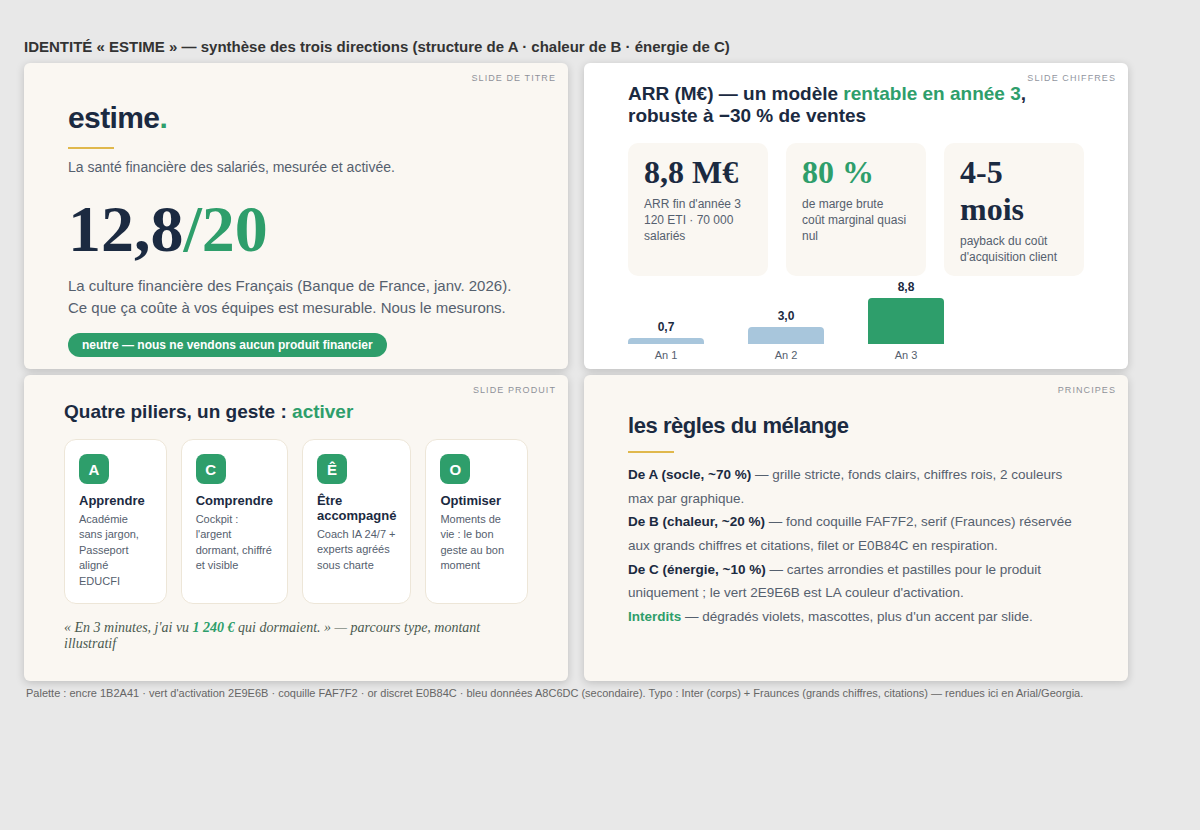
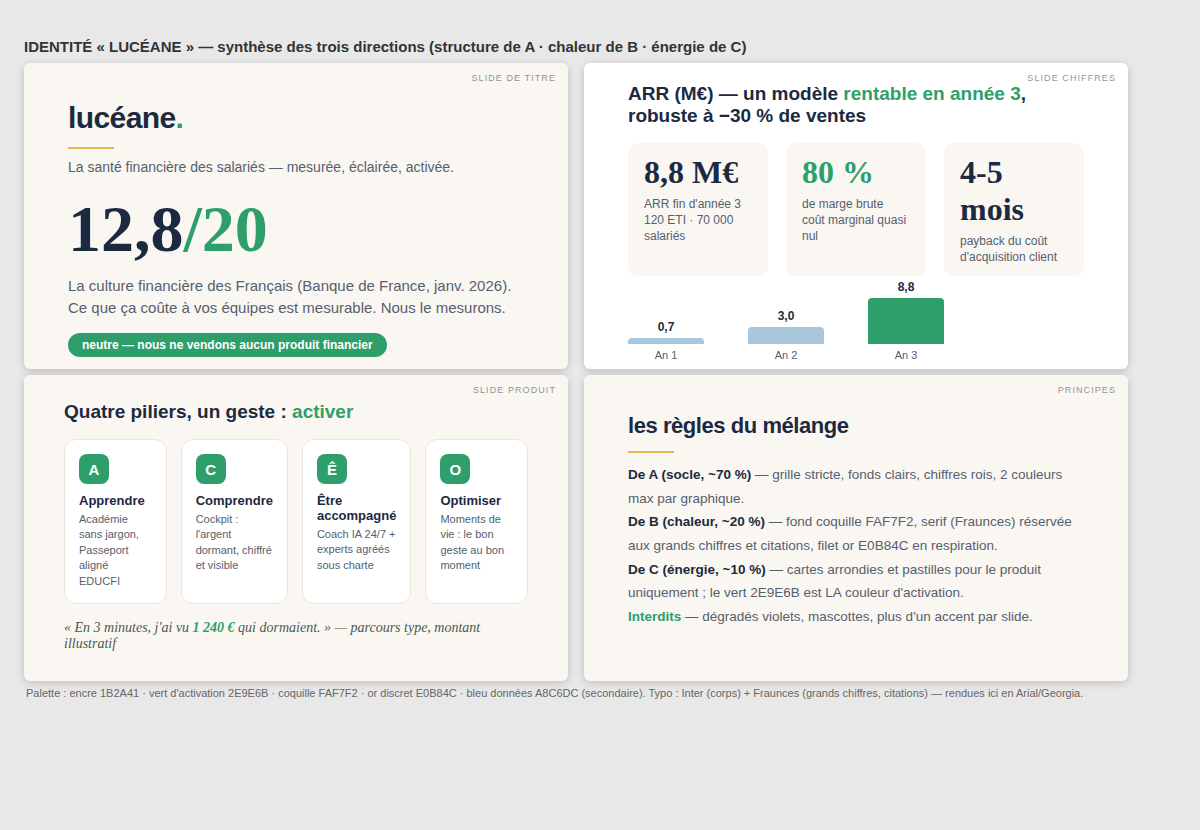
Nom acté : Lucéane (réserve INPI documentée, repli Valéane) ; identité rebrandée
Claude-Session: https://claude.ai/code/session_01AjujWJoYeXi5ZdFNzV5UZE

Changed region(s): [[0.0925, 0.0301, 0.6167, 0.0904], [0.2158, 0.1807, 0.37, 0.2108], [0.0617, 0.1205, 0.1542, 0.1807]]

diff --git a/docs/07_NOM.md b/docs/07_NOM.md
@@ -1,9 +1,31 @@
-# NOM — short-list vérifiée (recherche web du 04/08/2026)
+# NOM — historique des vérifications (04/08/2026)
 
-> **DÉCISION (04/08/2026) : ESTIME** — validé sur l'histoire (mesurer / estime
-> de soi / naviguer à l'estime). Sous réserve de la vérification INPI ci-dessous ;
-> repli : Aurige. Baseline de travail : « La santé financière des salariés,
-> mesurée et activée. »
+> **DÉCISION FINALE (04/08/2026) : LUCÉANE** — du latin *lux, lucere* : celle
+> qui met en lumière l'argent qui dort. Choisie pour sa musique (voyelles
+> ouvertes, consonnes liquides) et son histoire produit (Cockpit = éclairer).
+> Baseline : « La santé financière des salariés — mesurée, éclairée, activée. »
+>
+> **Réserve documentée (à dire en annexe du dossier, pas à cacher)** :
+> LUCEANE™ est une marque active de Sederma (Croda) en cosmétique (classes
+> 1/3) ; nos classes 9/36/41 sont distinctes → dépôt défendable d'après la
+> pré-vérification, MAIS recherche de similarité INPI officielle obligatoire
+> avant tout dépôt réel. Domaines luceane.fr/.com pris → stratégie : luceane.app
+> / luceane.io, négociation du .fr ultérieure. Au registre des sociétés : rien
+> d'actif en finance/RH/logiciel sous ce nom (un salon de thé, deux SCI).
+>
+> **Repli n°1 : VALÉANE** (latin *valere* = être en bonne santé ET avoir de la
+> valeur) — le plus propre de toutes les salves : valeane.fr LIBRE, homonymes
+> exacts radiés (reste un bureau de tabac), une seule ombre phonétique
+> (Valeanne Finances, cl. 36) à vérifier à l'INPI. Repli n°2 : Aurige.
+>
+> Éliminés par la vérification du 04/08 : Lévane (LEVANE SARL active en 66.19B
+> services financiers — conflit frontal), Salvéa (2 homonymes actifs + espace
+> Salvea/Salveo saturé en santé-RH), Aurane (conseil lyonnais + holding actifs),
+> Théane (propre en 9/36/41 mais maroquinerie + écho « théanine », pas de .fr).
+>
+> Historique des décisions : « Estime » avait été retenu le 04/08 puis écarté
+> (mot courant, à la demande de la fondatrice) ; la piste « instruments »
+> (sextant, alidade, astrolabe, octant, astrée, eunoia) écartée (phonétique).
 >
 > **Mode opératoire INPI (30 min, à faire avant tout dépôt)** : sur
 > data.inpi.fr → Recherche marques → chercher « estime » en exact ET en

diff --git a/docs/00_SOCLE_CHIFFRES.md b/docs/00_SOCLE_CHIFFRES.md
@@ -108,10 +108,13 @@ ventes −30 % (+0,33 M€) et à prix −20 % (+0,61 M€).
 
 ## 7. Nom et identité — DÉCISIONS du 04/08/2026
 
-- **Nom : ESTIME** (remplace le nom de travail « Séréane »), sous réserve de la
-  vérification INPI classes 9/36/41 (mode opératoire : 07_NOM.md). Repli : Aurige.
-  Baseline : « La santé financière des salariés, mesurée et activée. »
-  Toujours aucun nom dans les noms de fichiers.
+- **Nom : LUCÉANE** (remplace « Estime », écarté car mot courant, et le nom de
+  travail « Séréane »). Latin *lux* : celle qui éclaire l'argent qui dort.
+  Réserve documentée : marque cosmétique LUCEANE™ (Sederma/Croda, classes 1/3
+  ≠ nos classes 9/36/41) → vérification INPI officielle obligatoire avant dépôt ;
+  domaines : luceane.app/.io (le .fr est pris). Repli n°1 : Valéane (valeane.fr
+  libre). Détail : 07_NOM.md. Baseline : « La santé financière des salariés —
+  mesurée, éclairée, activée. » Toujours aucun nom dans les noms de fichiers.
 - **Identité : synthèse 70/20/10** (A clarté / B chaleur / C énergie) — spec
   complète et palette actée : 08_IDENTITE_VISUELLE.md.
 - **Chiffres : v1.0 du modèle adoptée** (§3) — le récit officiel est
